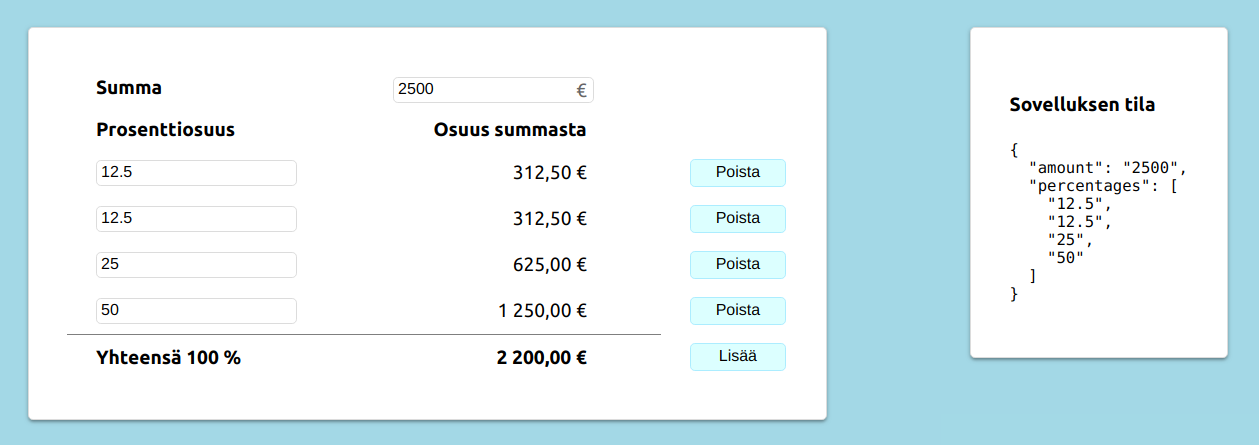
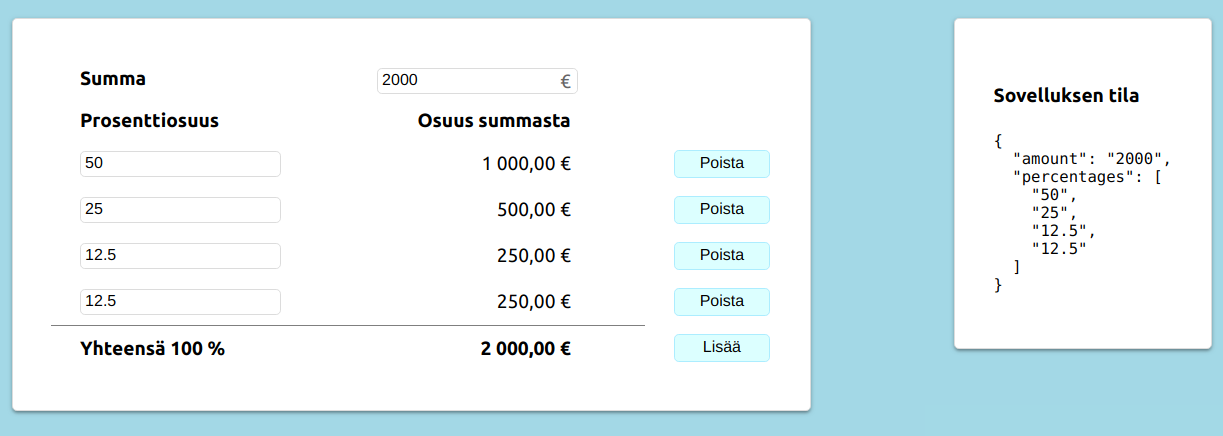
Fix Rahalaskuri demo's total sum calculation

diff --git a/rahalaskuri/src/App.js b/rahalaskuri/src/App.js
@@ -11,7 +11,7 @@ function formatPercentage(number) {
 class Calculator extends React.Component {
 
   state = {
-    amount: 100,
+    amount: "200",
     percentages: ["50", "50"]
   };
 
@@ -108,7 +108,10 @@ class Calculator extends React.Component {
                 {
                   formatMoney(
                     this.state.percentages.length > 0 ?
-                      this.state.percentages.reduce((acc, percentage) => parseFloat(acc) + parseFloat(percentage) * parseFloat(this.state.amount) / 100) :
+                      this.state.percentages.reduce((acc, percentage) =>
+                        parseFloat(acc) + parseFloat(percentage) / 100 * parseFloat(this.state.amount),
+                        0
+                      ) :
                       0
                   )
                 }
